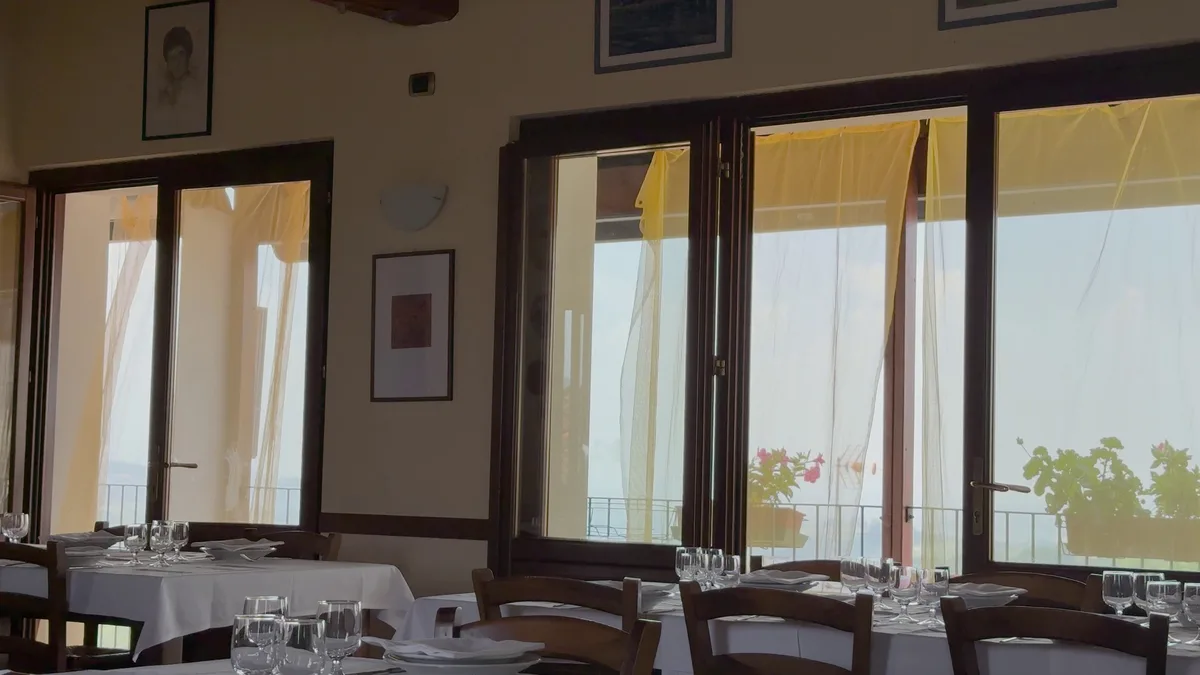
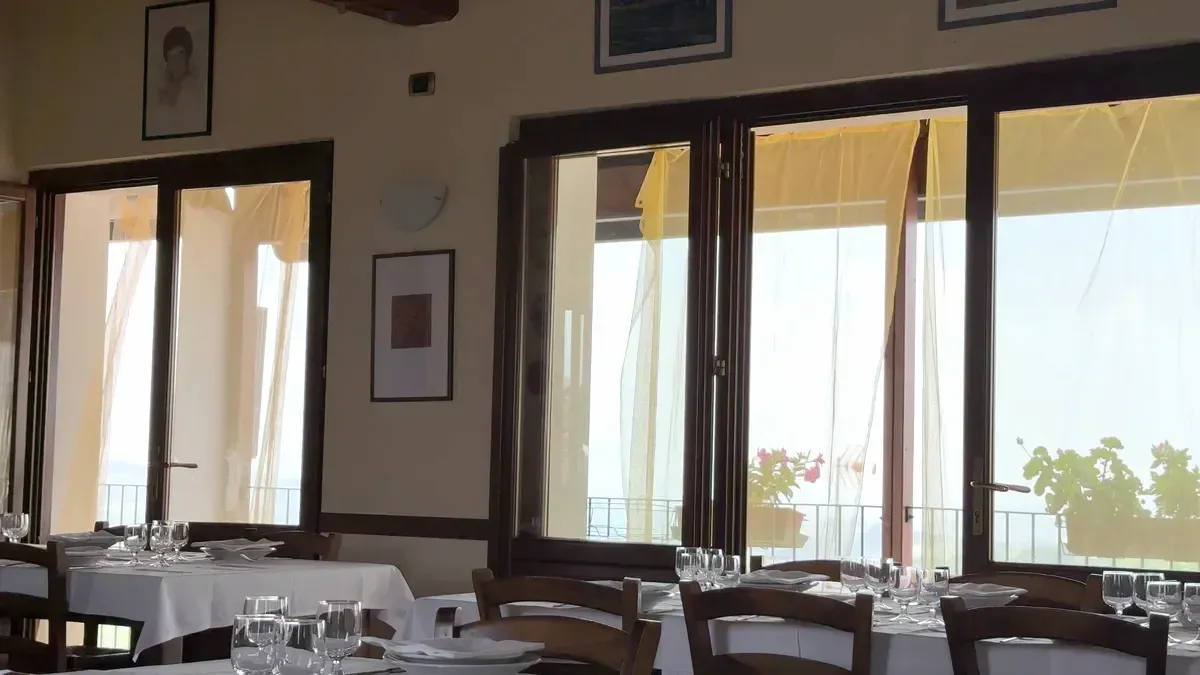
industry-port-v7:look: v7's stylesheet additions and the kit's fixes of a9c7023, scoped to .kit3.k-industry; the lifted photograph
THE KIT 3 PAGE: THE INDUSTRY takes the v6-to-v7 difference of the target's own stylesheet: the receipt's sum line and minus, the
months' Average line, hollow quietest month and busiest figure, the sizes over their ranges, the table's own-counts group and the
money pair on one line from 961, the opening band stacking below 960; the kit's fixes (hero cell titles at 16 with 24px icons, the
icon above from 961 to 1199, the hero grid's 576 plate from 1200, .answer's switch keeping its row). design-tokens kit3: the
photo-ground is the line's grey as tokens.json gives it since a9c7023 (v6 held back the kit's earlier blue for his palette rule);
kit3CssVars equals the v7 target's token block on all 99 variables but the two font families. The hero photograph replaced by
v7's lifted one (v7/img/hero.webp, hero-1200.webp; never darkened); only this page reads it.

diff --git a/src/app/globals.css b/src/app/globals.css
@@ -3277,10 +3277,11 @@ main :where(p, li, blockquote, dd) {
 @media (prefers-reduced-motion: reduce) { .kit4 .k-fold summary svg { transition: none; } }
 
 /* =============================================================================
-   THE KIT 3 PAGE: THE INDUSTRY. The industry page v6 (his "v6 is the approved industry target.", 2026-10-21, FOUNDER-VERDICTS "The
-   industry page (/industries/restaurants) v6 approved"), drawn by src/components/spine/industry/kit3-view.tsx in KIT-VERSION 3's
-   forms (his "The gallery is right: move the pages onto kit version 3, each at its next version.", 2026-10-21). The rules are
-   sheets/kit/v3/kit3.css and the target builder's own CSS (sheets/industry/v6/src/build_industry_v6.py, EXTRA_CSS), section for
+   THE KIT 3 PAGE: THE INDUSTRY. The industry page v7 (FOUNDER-VERDICTS "The industry page (/industries/restaurants) v7 approved, his
+   choice delegated"; v6, "v6 is the approved industry target.", 2026-10-21, before it), drawn by
+   src/components/spine/industry/kit3-view.tsx in KIT-VERSION 3's forms (his "The gallery is right: move the pages onto kit version 3,
+   each at its next version.", 2026-10-21). The rules are sheets/kit/v3/kit3.css as the v7 target carries it (the kit's fixes of
+   a9c7023) and the target builder's own CSS (sheets/industry/v7/src/build_industry_v7.py, EXTRA_CSS), section for
    section, every selector under the page's one root `.kit3.k-industry`, so nothing here reaches another page and THE KIT PAGE above
    (version 2, which the v4 view and London v9 read) is untouched. The class names are the kit's own (`.sub`, `.fig`, `.pair`,
    `.caption` ...): the KIT 3 laws (probe_laws.mjs) read some of them, and the site's rules of those names all live under `.av2`.
@@ -3529,14 +3530,17 @@ main :where(p, li, blockquote, dd) {
 .kit3.k-industry .lede { font: 400 var(--type-lead) var(--font-family-text); color: var(--color-ink-2); }
 .kit3.k-industry .fig-card { grid-column: 2; display: grid; gap: var(--gap-group); }
 .kit3.k-industry .answer { display: flex; justify-content: space-between; gap: var(--space-16); align-items: flex-start; }
-.kit3.k-industry .answer > div { display: grid; gap: var(--gap-label-figure); }
+/* the switch keeps its row (the kit's review, 2026-10-21; a9c7023) */
+.kit3.k-industry .answer > div:not(.switch) { display: grid; gap: var(--gap-label-figure); }
 .kit3.k-industry .al { font: 600 var(--type-small) var(--font-family-text); color: var(--color-ink-2); }
 .kit3.k-industry .av { display: flex; flex-wrap: wrap; align-items: baseline; column-gap: var(--space-8); font: 400 var(--type-lead) var(--font-family-text); color: var(--color-ink-2); }
 .kit3.k-industry .av .big { font: 600 var(--type-answer) var(--font-family-figure); letter-spacing: -0.02em; color: var(--color-terra); }
 .kit3.k-industry .as { font: 400 var(--type-small) var(--font-family-text); color: var(--color-muted); }
 .kit3.k-industry .cells { display: grid; grid-template-columns: 1fr 1fr; gap: var(--space-8); }
 .kit3.k-industry .cell { min-width: 0; display: grid; gap: var(--space-8); align-content: start; }
-.kit3.k-industry .cl { display: flex; align-items: center; gap: var(--space-8); font: 600 var(--type-small) var(--font-family-text); color: var(--color-ink); }
+/* a cell's title at 16 with its icon at 24 inline (his FV 1785, "a little bit bigger and darker"; the kit's fixes of a9c7023); the icon
+   above it from 961 to 1199, where the answer plate is narrow; at 14 under the icon on a phone (section 17) */
+.kit3.k-industry .cl { display: flex; align-items: center; gap: var(--space-8); font: 600 var(--type-lead) var(--font-family-text); color: var(--color-ink); }
 .kit3.k-industry .cv { font: 600 var(--type-title) var(--font-family-figure); letter-spacing: -0.01em; font-variant-numeric: tabular-nums; }
 .kit3.k-industry .cap { display: flex; flex-wrap: wrap; gap: var(--space-4) var(--space-12); align-items: center; font: 400 var(--type-small) var(--font-family-text); color: var(--color-muted); }
 .kit3.k-industry .cap a { color: var(--color-ink); font-weight: 600; min-height: 44px; display: inline-flex; align-items: center; }
@@ -3554,6 +3558,13 @@ main :where(p, li, blockquote, dd) {
 /* ---------- 15. The home's pieces: the question box, the marks, the photograph card, a collection's head, the band ---------- */
 /* ---------- 16. The foot: the email row, the footer ---------- */
 /* ---------- 17. Widths: 1080, 1024, 960, 768, 640, 560 ---------- */
+/* each cell title on one line (a9c7023) */
+@media (min-width: 1200px) {
+  .kit3.k-industry .hero-grid { grid-template-columns: minmax(0, 1fr) minmax(0, 576px); }
+}
+@media (min-width: 961px) and (max-width: 1199px) {
+  .kit3.k-industry .cl { flex-direction: column; align-items: flex-start; }
+}
 @media (max-width: 1080px) {
   .kit3.k-industry .hero-grid { grid-template-columns: minmax(0, 1fr) minmax(0, 480px); }
 }
@@ -3590,7 +3601,7 @@ main :where(p, li, blockquote, dd) {
 }
 @media (max-width: 560px) {
   .kit3.k-industry { --pad-card: var(--gap-card-pad-phone); --pad-panel: var(--gap-panel-pad-phone); --pad-plate: var(--gap-plate-pad-phone); }
-  .kit3.k-industry .cl { flex-direction: column; align-items: flex-start; }
+  .kit3.k-industry .cl { flex-direction: column; align-items: flex-start; font: 600 var(--type-small) var(--font-family-text); }
   .kit3.k-industry .cl svg { width: var(--icon-medium); height: var(--icon-medium); }
   .kit3.k-industry .title-plate h1 { font-size: var(--font-display-plate-name-phone); }
   .kit3.k-industry .kv > div { grid-template-columns: minmax(0, 1fr) auto; column-gap: var(--space-12); }
@@ -3611,7 +3622,7 @@ main :where(p, li, blockquote, dd) {
 @media (prefers-reduced-motion: reduce) {
   .kit3.k-industry *, .kit3.k-industry *::before, .kit3.k-industry *::after { transition: none !important; animation: none !important; }
 }
-/* ---- the page's own: sheets/industry/v6/src/build_industry_v6.py EXTRA_CSS, scoped ---- */
+/* ---- the page's own: sheets/industry/v7/src/build_industry_v7.py EXTRA_CSS (v6's with v7's additions), scoped ---- */
 /* the industry hero: no money in the answer, so no switch; the hero as tall as its photograph; the card at its content */
 .kit3.k-industry .city-hero.ind .hero-grid { min-height: 700px; box-sizing: border-box; }
 .kit3.k-industry .city-hero.ind .pano img { object-position: 50% 90%; }
@@ -3628,7 +3639,30 @@ main :where(p, li, blockquote, dd) {
 .kit3.k-industry .def2 b { color: var(--color-ink); }
 /* the part bar's profit and its key */
 .kit3.k-industry .kt .tc, .kit3.k-industry .akey i.tc { background: var(--color-terra); }
+/* the receipt: the two costs with their minus, a sum line, operating profit in terracotta */
+.kit3.k-industry .kv.year > div:last-child { border-top: var(--border-hairline) solid var(--color-line-2); }
 .kit3.k-industry .kv.year > div:last-child :is(dt, dd) { color: var(--color-ink); font-weight: 700; }
+.kit3.k-industry .kv.year dd [data-focal] { color: var(--color-terra); }
+.kit3.k-industry .kv.year .mi { margin-right: var(--space-4); color: var(--color-ink-2); }
+.kit3.k-industry .kv dd [data-focal] .m .p, .kit3.k-industry .kv dd span[data-focal], .kit3.k-industry .fig > [data-focal] { color: var(--color-terra); }
+.kit3.k-industry .ratios thead th { white-space: nowrap; }
+/* the months: every month grey but the busiest, the quietest hollow, a line at the year's average */
+.kit3.k-industry .vchart .vb { position: relative; flex-direction: column; align-items: center; justify-content: flex-end; }
+.kit3.k-industry .vchart .vb::after { content: ""; position: absolute; left: calc(var(--space-2) * -1); right: calc(var(--space-2) * -1); bottom: var(--avg); border-top: var(--border-hairline) solid var(--color-ink-2); }
+.kit3.k-industry .vcol.low .vb b { background: transparent; border: var(--border-hairline) solid var(--color-ink-2); box-sizing: border-box; }
+.kit3.k-industry .vchart .vv { font: 600 var(--type-small) var(--font-family-figure); color: var(--color-terra); }
+.kit3.k-industry .vchart .avgl { position: absolute; left: 0; bottom: calc(var(--avg) + var(--space-4)); z-index: 1; font: 400 var(--type-small) var(--font-family-text); color: var(--color-ink-2); white-space: nowrap; }
+/* the sizes: each name over its range */
+.kit3.k-industry .kv .sz small { margin-left: var(--space-4); font: 400 var(--type-small) var(--font-family-text); color: var(--color-muted); }
+@media (max-width: 1100px) {
+  .kit3.k-industry .kv .sz small { display: block; margin-left: 0; }
+}
+/* the country table: their own counts as a group; the money pair on one line from 961 */
+.kit3.k-industry .peers tbody.own .grp th { padding-top: var(--space-24); font: 600 var(--type-small) var(--font-family-text); color: var(--color-muted); text-align: left; }
+@media (min-width: 961px) {
+  .kit3.k-industry .peers td .m { flex-direction: row; align-items: baseline; column-gap: var(--space-4); }
+  .kit3.k-industry[data-cur="usd"] .peers td .m { flex-direction: row-reverse; }
+}
 /* an hour of work: what the hour leaves between the two marks, the section's focal part */
 .kit3.k-industry .hstrip .gap { position: absolute; top: 26px; height: 8px; background: var(--color-terra); }
 .kit3.k-industry .hstrip .lab { width: max-content; }
@@ -3651,16 +3685,13 @@ main :where(p, li, blockquote, dd) {
 /* the table's currency switch above it */
 .kit3.k-industry .tsw { display: flex; justify-content: flex-end; }
 .kit3.k-industry .akey i.fa, .kit3.k-industry .kv .k.fa { background: var(--color-faint); }
-/* below 960 the ratios' pair stacks as the kit stacks a pair below 768; the months take their one-letter labels */
+/* below 960 the ratios' pair and the opening band stack as the kit stacks a pair below 768; the months take their one-letter labels */
 @media (max-width: 960px) {
-  .kit3.k-industry .pair.w21 { grid-template-columns: minmax(0, 1fr); grid-template-rows: none; }
-  .kit3.k-industry .pair.w21 > .sub + .sub { margin-top: var(--gap-stack); padding-top: var(--gap-stack); border-top: var(--border-hairline) solid var(--color-line); }
+  .kit3.k-industry .pair.w21, .kit3.k-industry .pair.w57 { grid-template-columns: minmax(0, 1fr); grid-template-rows: none; }
+  .kit3.k-industry :is(.pair.w21, .pair.w57) > .sub + .sub { margin-top: var(--gap-stack); padding-top: var(--gap-stack); border-top: var(--border-hairline) solid var(--color-line); }
   .kit3.k-industry .vm .ml { display: none; }
   .kit3.k-industry .vm .ms { display: inline; }
   .kit3.k-industry .city-hero.ind .hero-grid { min-height: 0; }
-}
-@media (max-width: 767px) {
-  .kit3.k-industry .pair.w57 { grid-template-columns: minmax(0, 1fr); }
 }
 /* on a phone the range stands under its label, the lowest over the highest */
 @media (max-width: 560px) {

diff --git a/src/lib/design-tokens.ts b/src/lib/design-tokens.ts
@@ -783,8 +783,8 @@ export const kit = {
 /**
  * KIT-VERSION 3'S TOKENS: sheets/kit/v3/tokens.json, the one source of version 3's look (his "The gallery is right: move the pages onto
  * kit version 3, each at its next version.", 2026-10-21), copied here group for group so a page drawn on version 3 reads every colour,
- * distance, corner, size, shadow and motion from the site's tokens. First reader: the industry page v6 (his "v6 is the approved industry
- * target.", 2026-10-21), src/components/spine/industry/kit3-view.tsx, which sets them as the kit's own CSS variables (`kit3CssVars`:
+ * distance, corner, size, shadow and motion from the site's tokens. First reader: the industry page (v6, his "v6 is the approved industry
+ * target.", 2026-10-21; v7 in its place, FOUNDER-VERDICTS "v7 approved"), src/components/spine/industry/kit3-view.tsx, which sets them as the kit's own CSS variables (`kit3CssVars`:
  * `--color-ink`, `--space-24`, `--font-size-focal`, `--shadow-card` ...) for globals.css, THE KIT 3 PAGE: THE INDUSTRY (`.kit3.k-industry`).
  * Its own group: version 2's `kit` above stays exactly as the v4 port and London v9 read it. A colour version 2 already holds is named
  * from it, never typed twice. The type-ladder gate holds `type` to tokens.json's ladder.
@@ -794,10 +794,10 @@ export const kit3 = {
     white: kit.color.white, paper: kit.color.paper, "paper-2": kit.color.paper2, line: kit.color.line, "line-2": kit.color.n4, n3: kit.color.n3,
     faint: kit.color.faint, benchmark: "#8a969f", muted: kit.color.muted, "ink-2": kit.color.ink2, ink: kit.color.ink, terra: kit.color.terra,
     "terra-soft": "#f9ebe9", band: "#c11c00",
-    /* tokens.json's photo-ground (#dfe7ee, behind a photograph while it loads) is a blue at 31% saturation, which his palette rule
-       ("terracotta plus cool neutrals only ... no exceptions", 2026-08-09; the palette-membership gate) does not admit: the site draws
-       the kit's own paper-2 there instead, a neutral the reader sees for the moment the photograph loads. */
-    "photo-ground": kit.color.paper2,
+    /* tokens.json's photo-ground (behind a photograph while it loads): the line's grey since the kit's fixes of a9c7023 (the v7 target,
+       tokens.json sha256:4386cf44e042bcde). v6 drew paper-2 there, holding back the kit's earlier blue (#dfe7ee), which his palette rule
+       ("terracotta plus cool neutrals only ... no exceptions", 2026-08-09; the palette-membership gate) does not admit; the grey it does. */
+    "photo-ground": kit.color.line,
   },
   space: { 2: "2px", 4: "4px", 8: "8px", 12: "12px", 16: "16px", 24: "24px", 32: "32px", 48: "48px", 64: "64px", 96: "96px", 128: "128px" },
   gap: {
